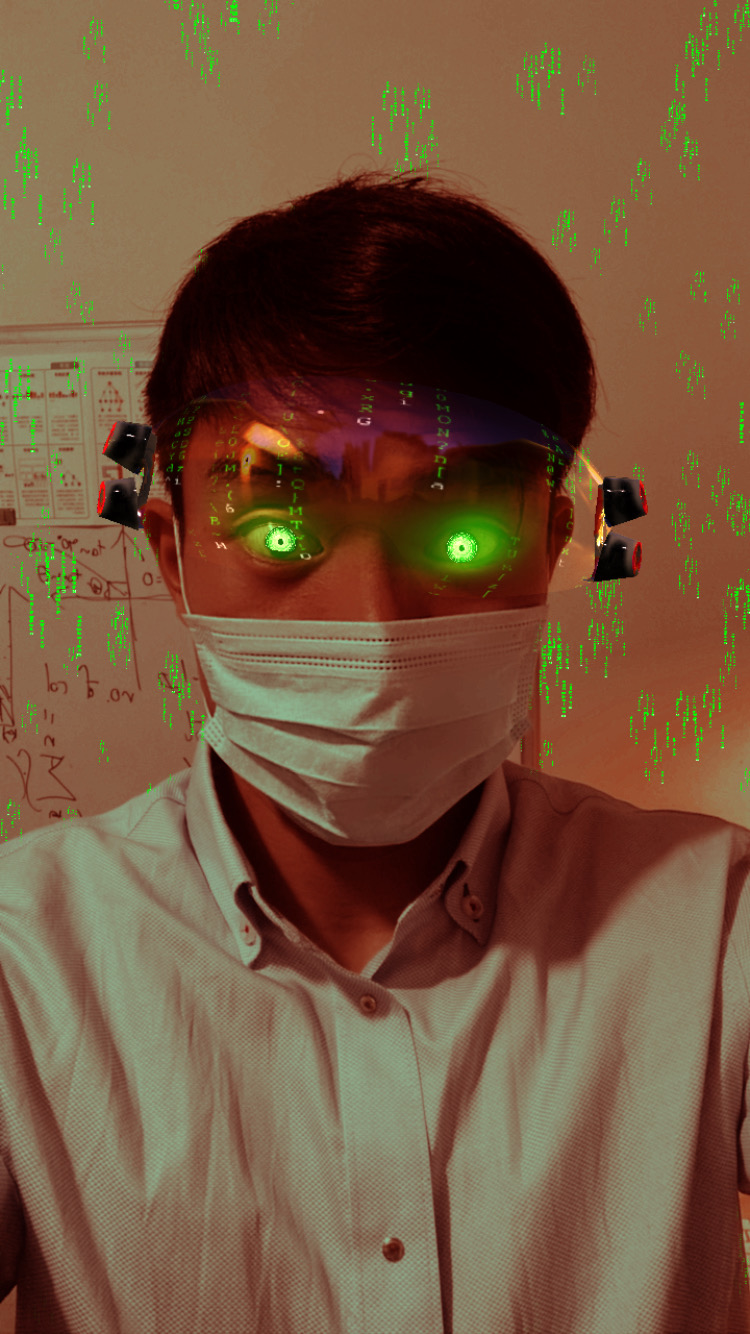
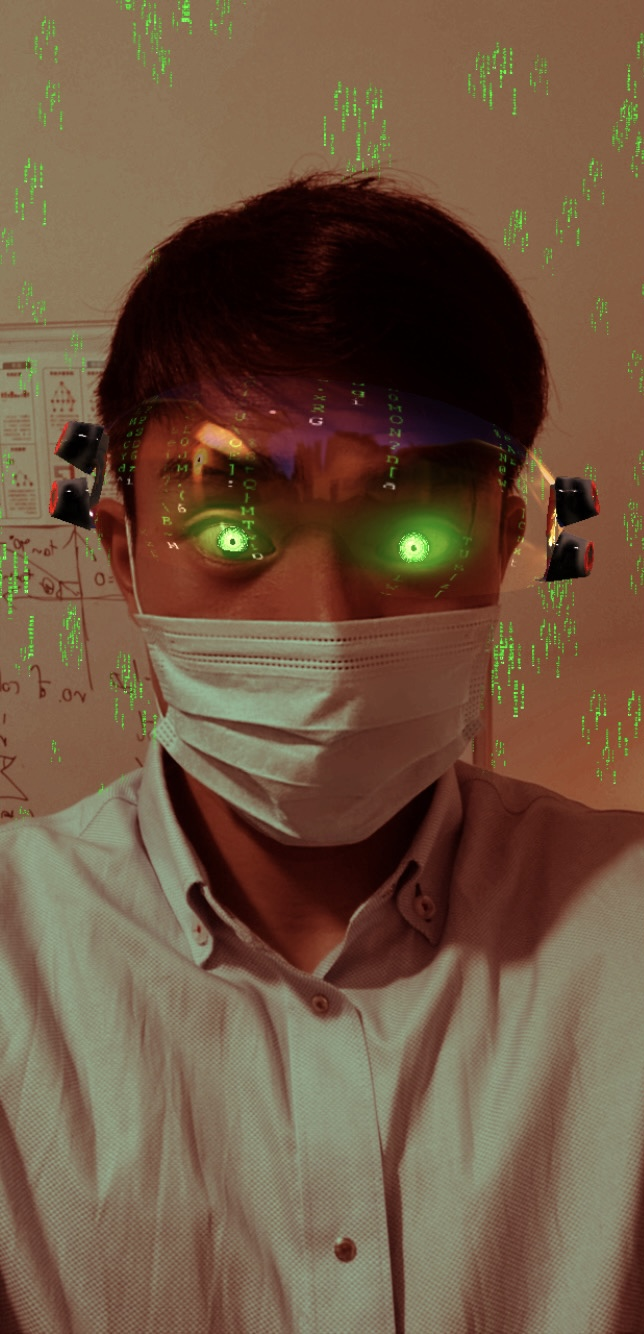
minor: change profile pic dark

diff --git a/pages/index.js b/pages/index.js
@@ -28,7 +28,7 @@ const CodeBlockText = ({ children, theme }) => (
 export default function Home() {
     const theme = useTheme();
     const { matrix, toggleMatrix } = React.useContext(ThemeContext);
-    const ModeSwitch = styled(Switch)(({ theme }) => ({
+    const ModeSwitch = styled(Switch)(() => ({
         "& .MuiSwitch-switchBase.Mui-checked": {
             color: grey[600],
             "&:hover": {
@@ -45,7 +45,7 @@ export default function Home() {
     const handleChangeMatrixMode = (e) => {
         toggleMatrix();
     };
-    console.log(matrix);
+    console.log(theme);
     return (
         <div
             className={styles.container}
@@ -69,21 +69,16 @@ export default function Home() {
                 </Box>
                 <Box mt={6}>
                     <Box display="flex" justifyContent="center">
-                        {matrix ? (
-                            <Image
-                                src="/profile_pic_dark.jpg"
-                                alt="Alfred Chow"
-                                width={222}
-                                height={380}
-                            />
-                        ) : (
-                            <Image
-                                src="/profile_pic.jpg"
-                                alt="Alfred Chow"
-                                width={200}
-                                height={380}
-                            />
-                        )}
+                        <Image
+                            src={
+                                matrix
+                                    ? "/profile_pic_dark.jpg"
+                                    : "/profile_pic.jpg"
+                            }
+                            alt="Alfred Chow"
+                            width={200}
+                            height={380}
+                        />
                     </Box>
                     <Box display="flex" justifyContent="center">
                         <h1 className={styles.title}>Alfred Chow</h1>
